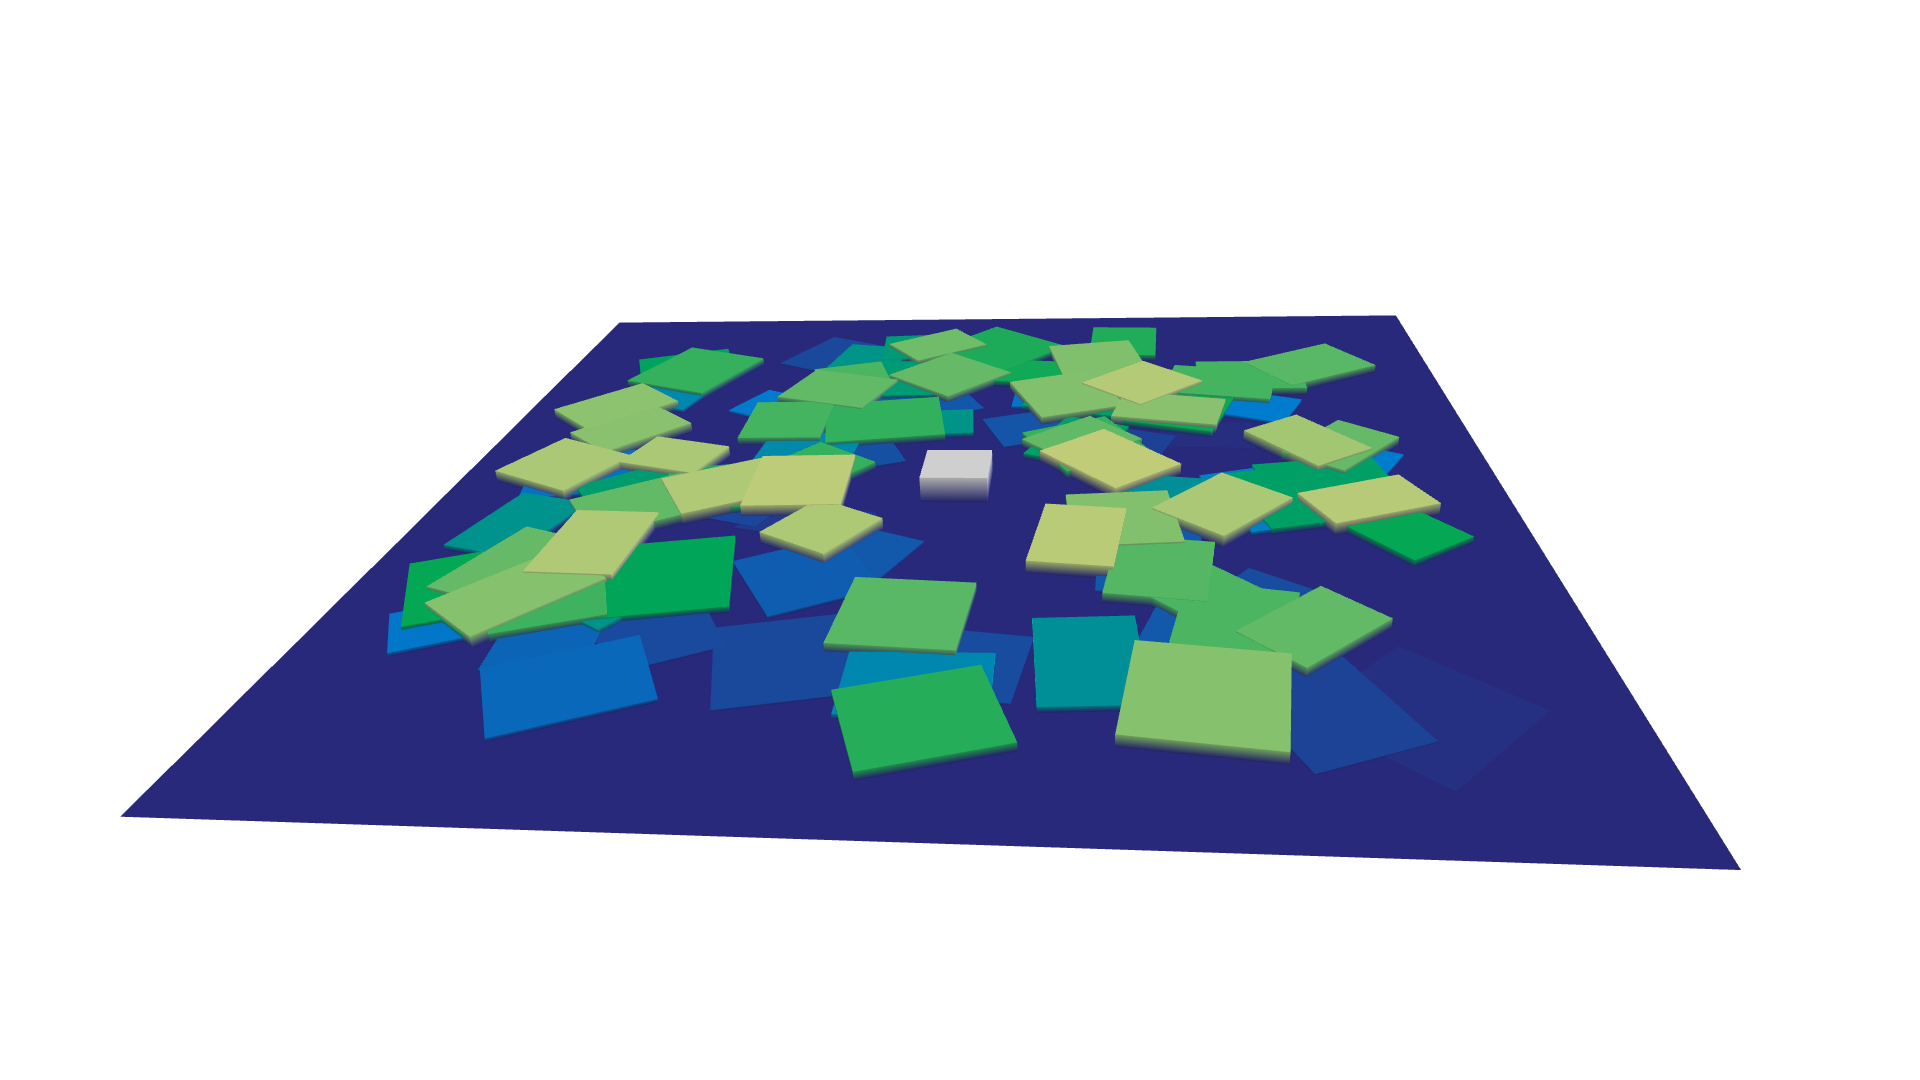
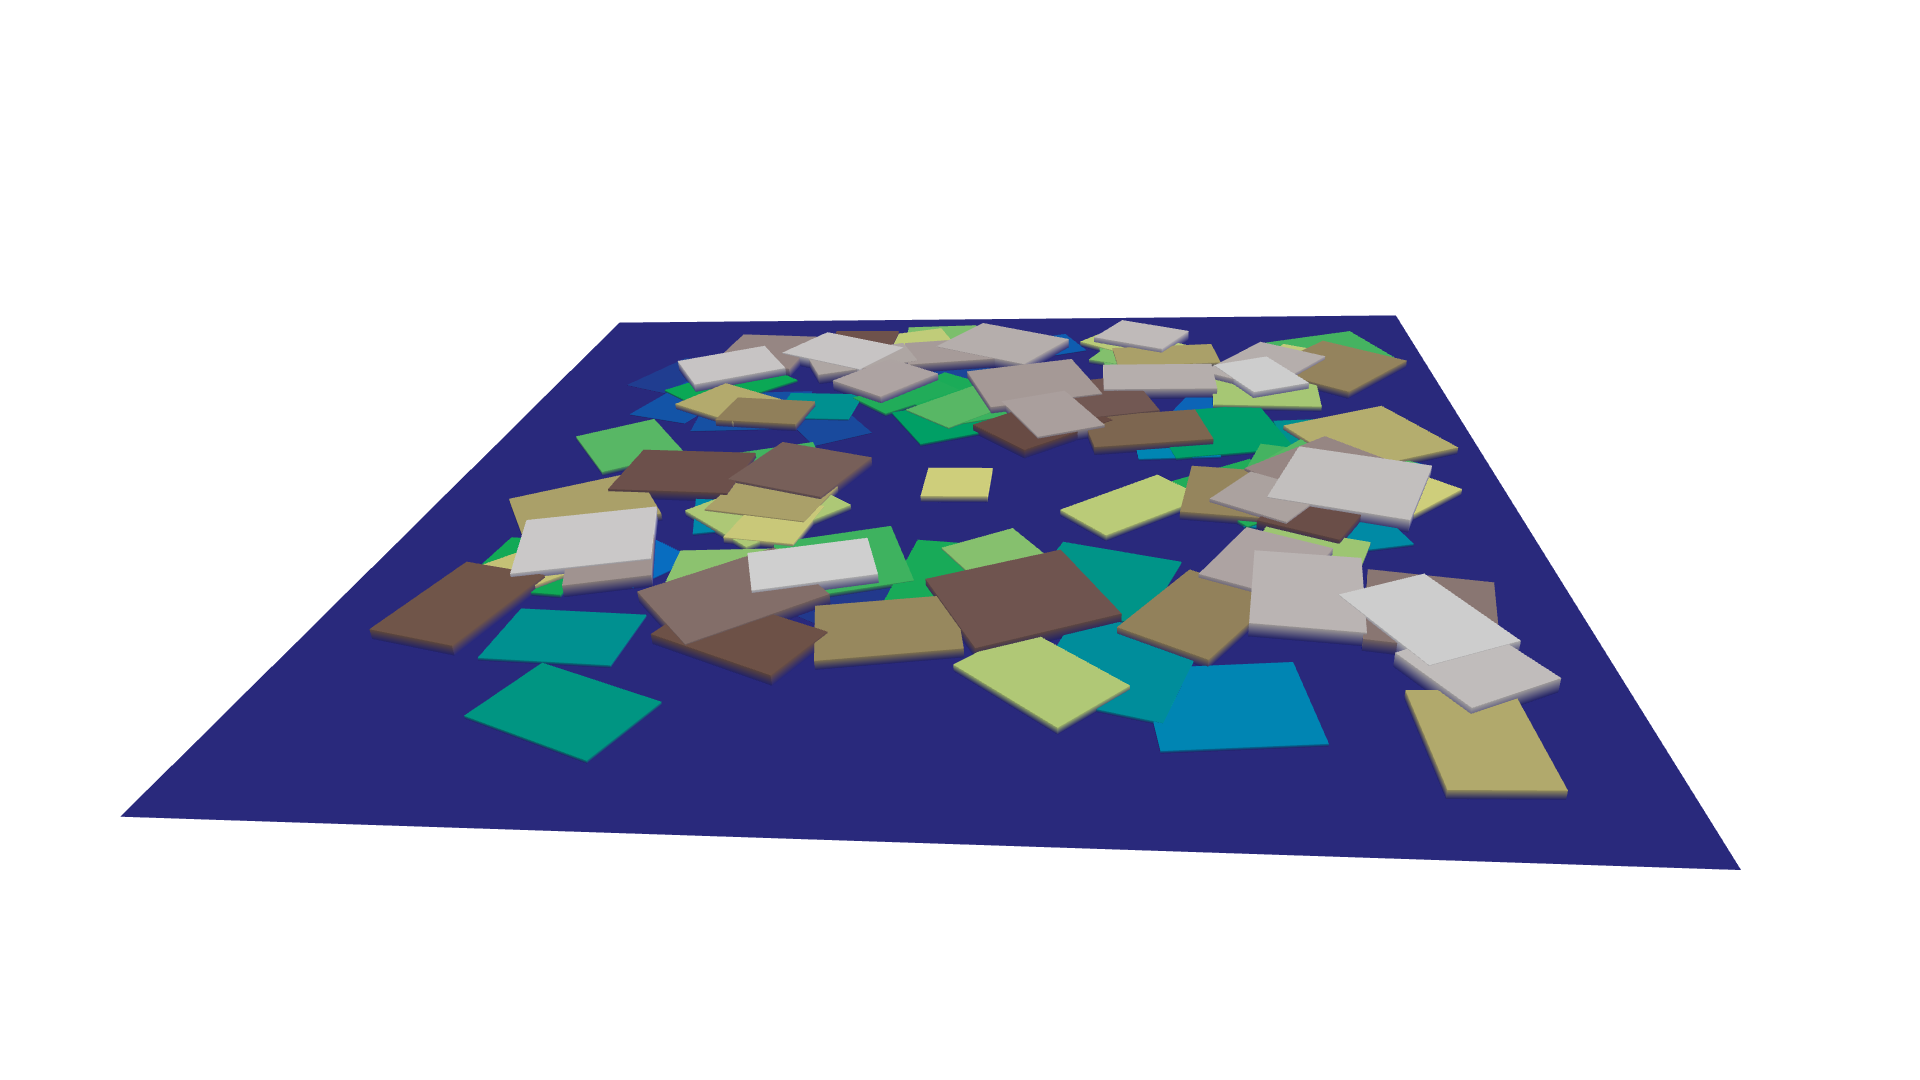
Update generation

Changed region(s): [[0.1875, 0.275, 0.8125, 0.7639]]

diff --git a/generate_preview_images.py b/generate_preview_images.py
@@ -1,29 +1,26 @@
 from terrain_perlin import generate_perlin_terrain
 from terrain_stairs import generate_pyramid_stairs_terrain
 from terrain_blocks import generate_block_terrain
-from terrain_heightmap import *
-from PIL import Image
+from terrain_heightmap import generate_heightmap, plot_heightmap
 import trimesh
-from IPython import embed
 import numpy as np
+from tqdm import tqdm
 
-mesh = generate_pyramid_stairs_terrain()
-
-# Create a scene from the mesh if not already done
-
-# embed()
-
+print("-- Generating meshes --")
 meshs = []
 meshs.append(generate_perlin_terrain())
 meshs.append(generate_pyramid_stairs_terrain(going_up=False))
 meshs.append(generate_pyramid_stairs_terrain(going_up=True))
-meshs.append(generate_step_field_terrain())
-i = 0
-for mesh in meshs:
-    i += 1
+meshs.append(generate_block_terrain())
+
+print("-- Generating images and heightmaps --")
+for i, mesh in enumerate(tqdm(meshs)):
+    # Add colormap to mesh along z coordinate
     mesh.visual.vertex_colors = trimesh.visual.interpolate(
         mesh.vertices[:, 2], color_map="terrain"
     )
+
+    # Create a scene from the mesh
     scene = trimesh.Scene(mesh)
     camera_transform = np.array(
         [
@@ -41,10 +38,10 @@ for mesh in meshs:
     data = scene.save_image(resolution=[1920, 1080], visible=False)
 
     # Convert the image data to an actual image and save it
-    fn = "terrain{}_3d.png".format(i)
+    fn = "terrain{}_3d.png".format(i + 1)
     with open(fn, "wb") as f:
         f.write(data)
     hm = generate_heightmap(mesh, resolution=10)
-    fn = "terrain{}_heightmap.png".format(i)
+    fn = "terrain{}_heightmap.png".format(i + 1)
 
     plot_heightmap(hm, filename=fn)

diff --git a/generate_terrains.py b/generate_terrains.py
@@ -1,29 +1,26 @@
 from terrain_perlin import generate_perlin_terrain
 from terrain_stairs import generate_pyramid_stairs_terrain
 from terrain_blocks import generate_block_terrain
-from terrain_heightmap import *
-from PIL import Image
+from terrain_heightmap import generate_heightmap, plot_heightmap
 import trimesh
-from IPython import embed
 import numpy as np
+from tqdm import tqdm
 
-mesh = generate_pyramid_stairs_terrain()
-
-# Create a scene from the mesh if not already done
-
-# embed()
-
+print("-- Generating meshes --")
 meshs = []
 meshs.append(generate_perlin_terrain())
 meshs.append(generate_pyramid_stairs_terrain(going_up=False))
 meshs.append(generate_pyramid_stairs_terrain(going_up=True))
-meshs.append(generate_step_field_terrain())
-i = 0
-for mesh in meshs:
-    i += 1
+meshs.append(generate_block_terrain())
+
+print("-- Generating images and heightmaps --")
+for i, mesh in enumerate(tqdm(meshs)):
+    # Add colormap to mesh along z coordinate
     mesh.visual.vertex_colors = trimesh.visual.interpolate(
         mesh.vertices[:, 2], color_map="terrain"
     )
+
+    # Create a scene from the mesh
     scene = trimesh.Scene(mesh)
     camera_transform = np.array(
         [
@@ -41,10 +38,10 @@ for mesh in meshs:
     data = scene.save_image(resolution=[1920, 1080], visible=False)
 
     # Convert the image data to an actual image and save it
-    fn = "terrain{}_3d.png".format(i)
+    fn = "terrain{}_3d.png".format(i + 1)
     with open(fn, "wb") as f:
         f.write(data)
     hm = generate_heightmap(mesh, resolution=10)
-    fn = "terrain{}_heightmap.png".format(i)
+    fn = "terrain{}_heightmap.png".format(i + 1)
 
     plot_heightmap(hm, filename=fn)
